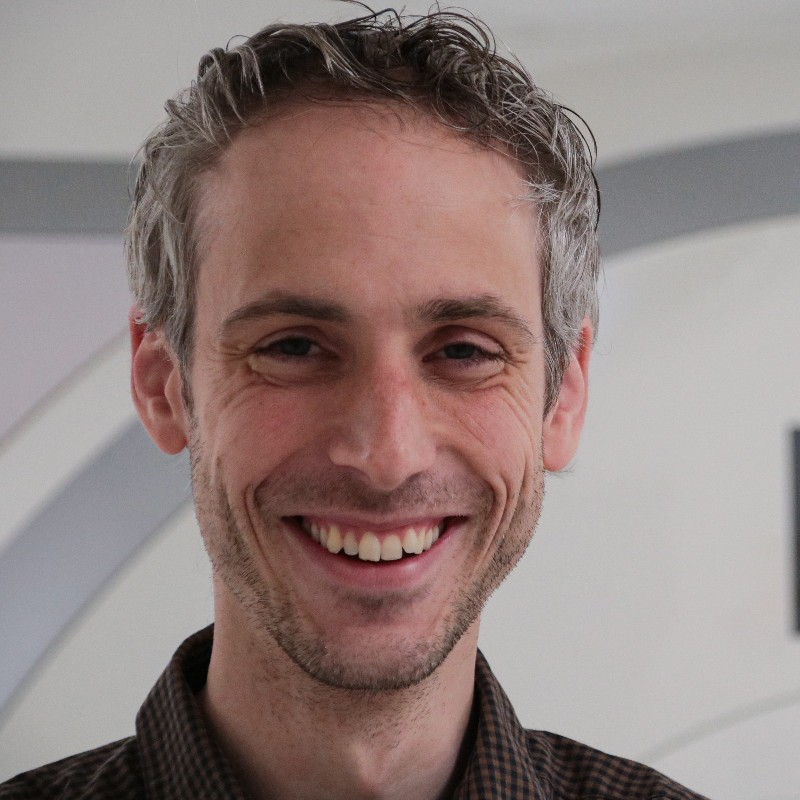
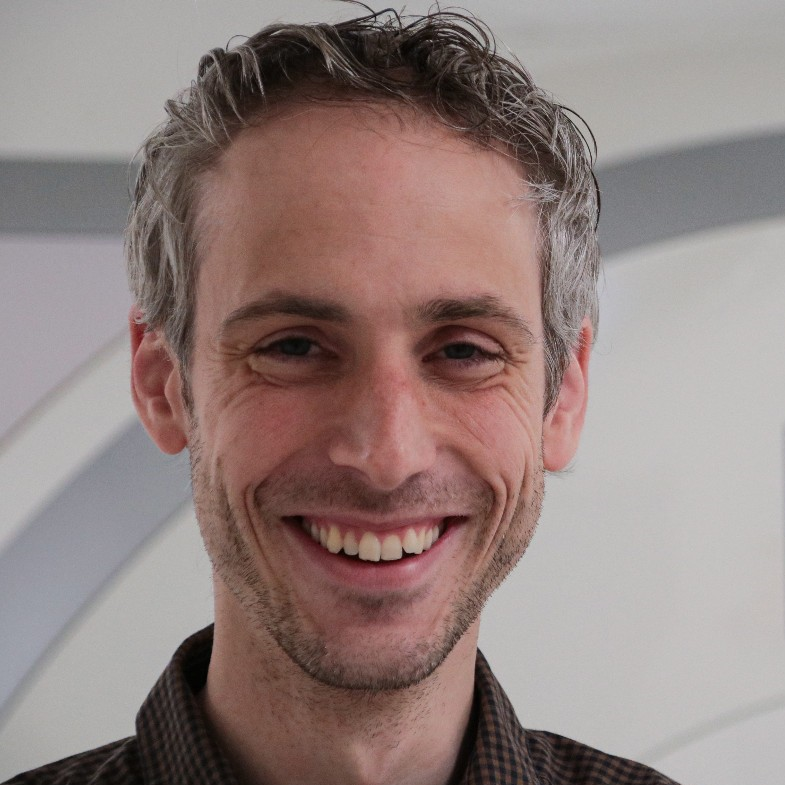
foto fixes, people fixes

diff --git a/docs/people.md b/docs/people.md
@@ -2,19 +2,18 @@
 sidebar: false
 ---
 <People header="Faculty">
-<Person name="Henkjan Huisman" title="Associate Professor" url="https://www.diagnijmegen.nl/people/henkjan-huisman/" img="Henkjan-Huisman.png" />
 <Person name="Jurgen Futterer" title="Professor" url="https://www.radboudumc.nl/personen/jurgen-futterer" img="jurgen-futterer.png" />
-<Person name="Derya Yakar" title="Radiologist" url="https://www.umcg.nl/-/d-yakar" img="derya-yakar.png" img="derya-yakar.png" />
-<Person name="Thomas Kwee" title="Radiologist" url="https://www.umcg.nl/-/t-c-kwee" img="thomas-kwee.png" img="thomas-kwee.png" /> 
+<Person name="Henkjan Huisman" title="Associate Professor" url="https://www.diagnijmegen.nl/people/henkjan-huisman/" img="henkjan-huisman.png" />
 <Person name="Frank Simonis" title="Assistant professor" url="https://people.utwente.nl/f.f.j.simonis" img="frank-simonis.png" />
-<Person name="Jelmer Wolterink" title="Assistant professor" url="https://people.utwente.nl/j.m.wolterink" img="jelmer-wolterink"
+<Person name="Jelmer Wolterink" title="Assistant professor" url="https://people.utwente.nl/j.m.wolterink" img="jelmer-wolterink.png" />
+<Person name="Derya Yakar" title="Radiologist" url="https://www.umcg.nl/-/d-yakar" img="derya-yakar.png" />
+<Person name="Thomas Kwee" title="Radiologist" url="https://www.umcg.nl/-/t-c-kwee" img="thomas-kwee.png" /> 
 <Person name="Wouter Nijhof" title="Siemens Healthineers" url="https://www.linkedin.com/in/wouter-nijhof-5a381074/?originalSubdomain=nl" img="wouter-nijhof.png" />
 </People>
 <People header="Scientific staff">
-<Person name="Joeran Bosma" title="PhD Candidate" url="https://www.diagnijmegen.nl/people/joeran-bosma/" img="Joeran-Bosma.png" />  
-<Person name="Stan Noordman" title="PhD Candidate" url="https://www.diagnijmegen.nl/people/stan-noordman/" img="stan-noordman.png" />
-<Person name="Nida Mir" title="PhD Candidate" url="https://people.utwente.nl/n.mir" img="nida-mir.png" />  
+<Person name="Joeran Bosma" title="PhD Candidate" url="https://www.diagnijmegen.nl/people/joeran-bosma/" img="joeran-bosma.png" />  
 <Person name="Stefan Fransen" title="PhD Candidate" url="https://www.linkedin.com/in/stefan-fransen-a5690a138/" img="stefan-fransen.png" />
-<Person name="Quintin van Lohuizen" title="PhD Candidate" url="https://www.linkedin.com/in/quintin-van-lohuizen-760418123/" img="quintin-lohuizen.png" />
-  
+<Person name="Quintin van Lohuizen" title="PhD Candidate" url="https://www.linkedin.com/in/quintin-van-lohuizen-760418123/" img="quintin-lohuizen.png" />  
+<Person name="Nida Mir" title="PhD Candidate" url="https://people.utwente.nl/n.mir" img="nida-mir.png" />  
+<Person name="Stan Noordman" title="PhD Candidate" url="https://www.diagnijmegen.nl/people/stan-noordman/" img="stan-noordman.png" />
 </People>
